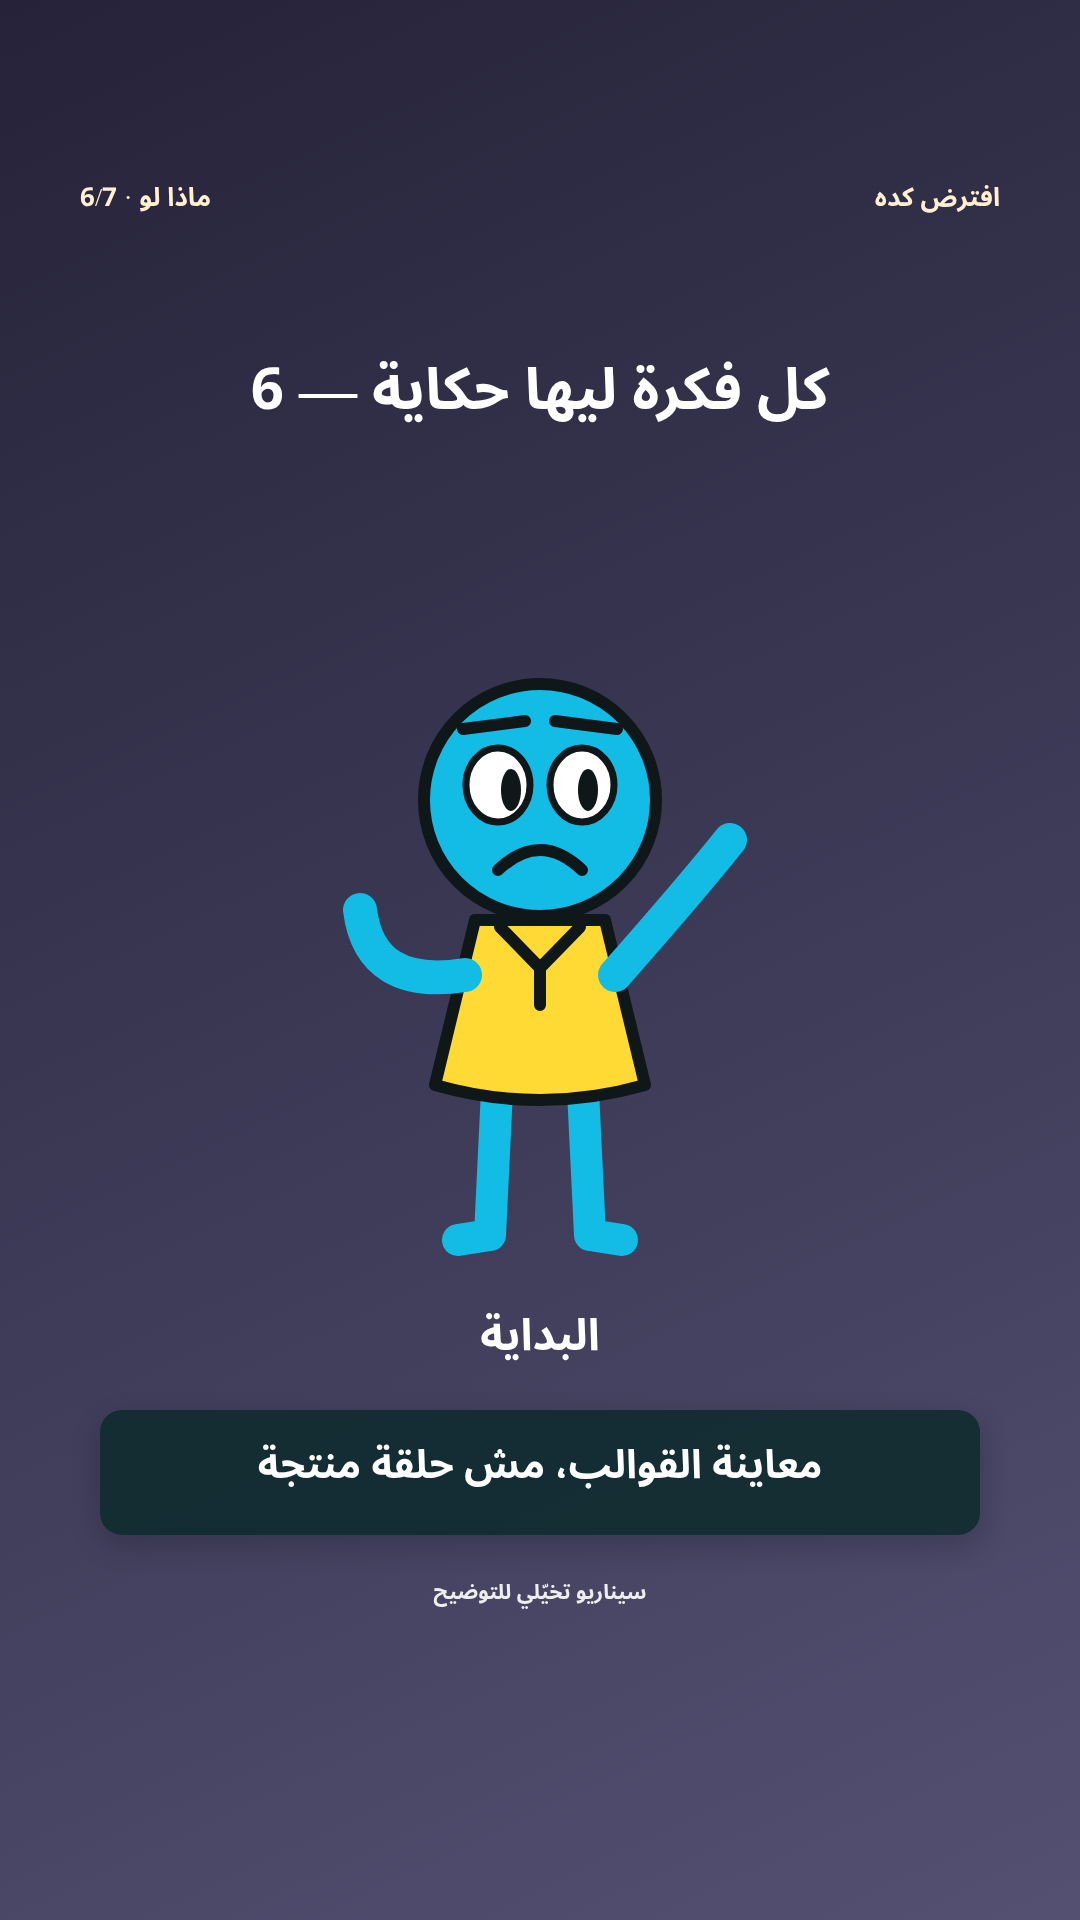
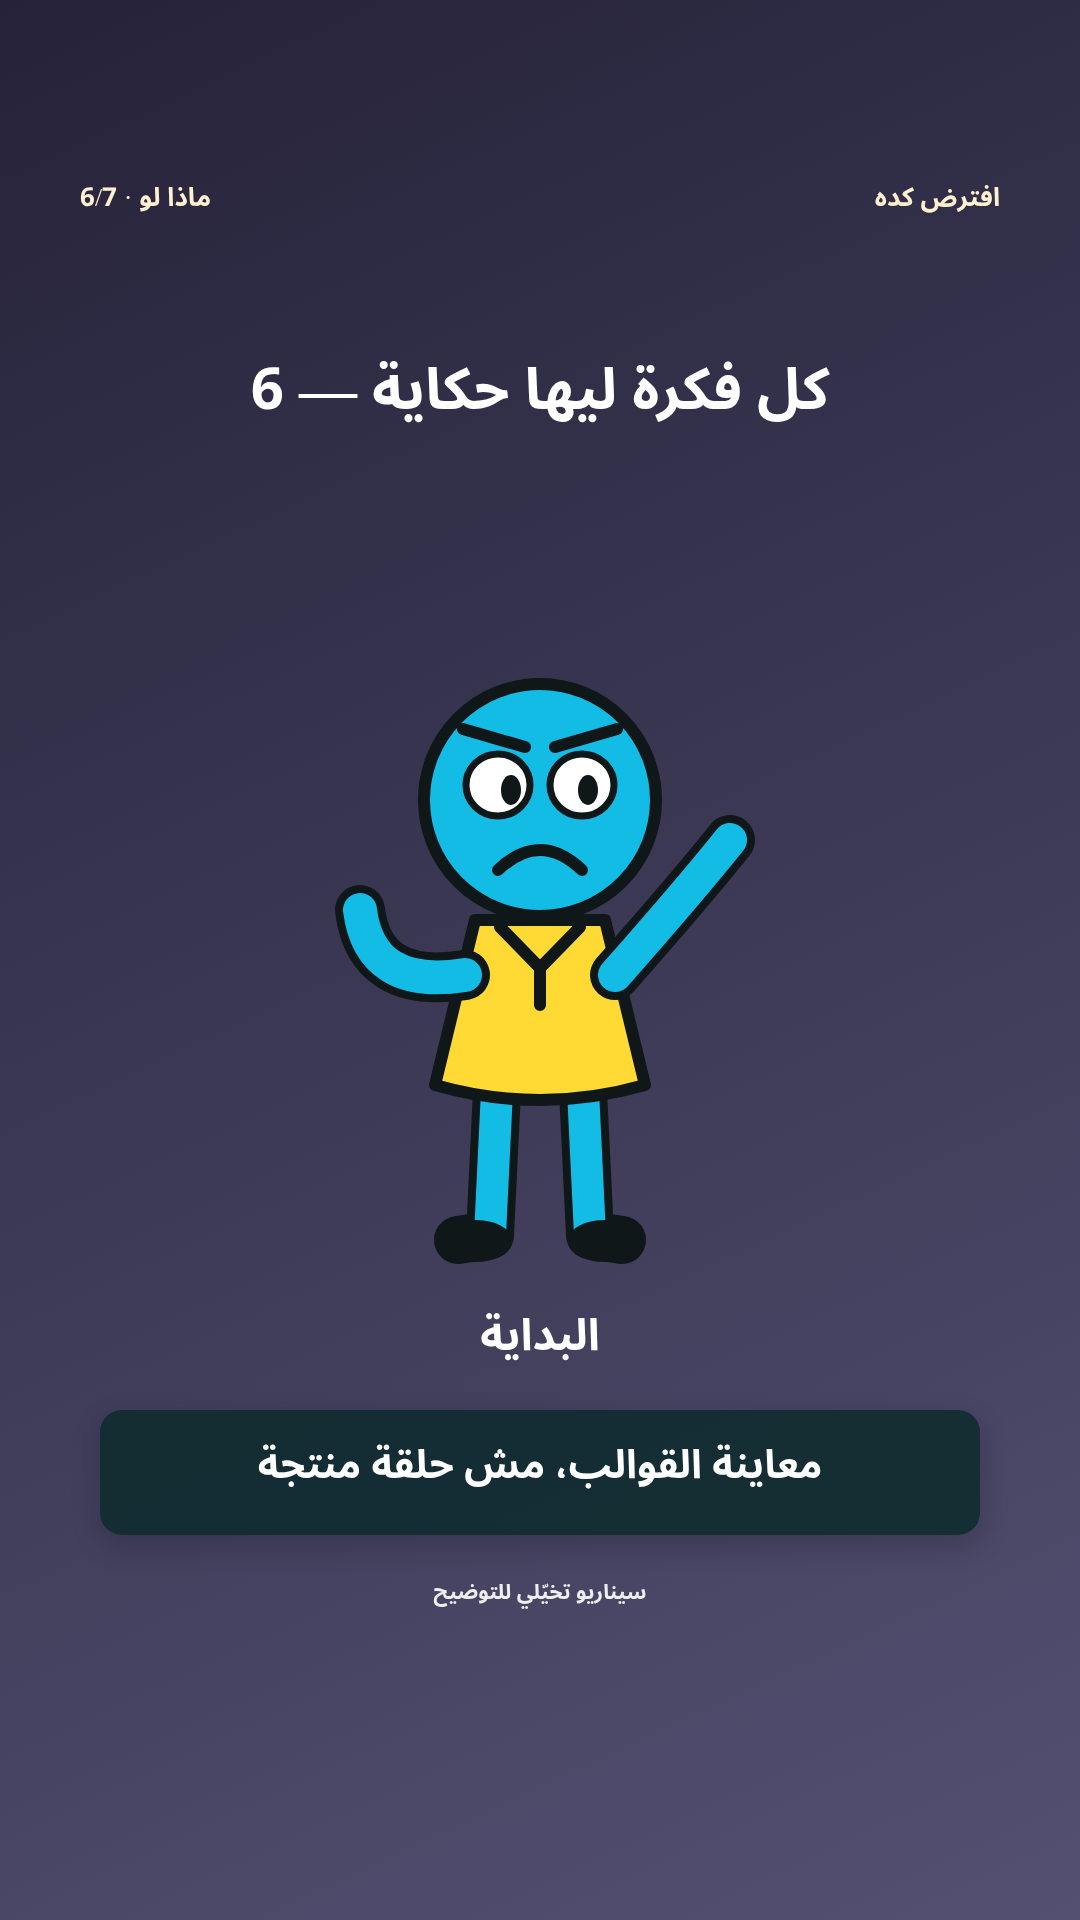
Refine outlined character limbs, expressions and action poses

diff --git a/src/Character.tsx b/src/Character.tsx
@@ -6,16 +6,21 @@ export function Character({frame,expression=0,action='point'}:{frame:number;expr
  const t=frame/30,speed=action==='run'?14:6,walk=['walk','run'].includes(action)?Math.sin(t*speed)*20:0;
  const y=action==='jump'?-Math.abs(Math.sin(t*4))*95:action==='hang'?Math.sin(t*3)*12:0;
  const rotation=action==='fall'?Math.min(85,t*90):action==='sleep'?85:action==='turn'?Math.sin(t*2)*9:0;
- const eye=expression===2||action==='sleep'?2:expression===7?27:21;
+ const eye=expression===2||action==='sleep'?2:[21,29,2,17,25,15,19,30,24,21,23,16][expression];
+ const brow=[-8,-22,10,25,-18,18,-15,30,-12,0,16,-10][expression];
+ const mouth=['M-42 -110 Q0 -63 42 -110','M-22 -105 Q-30 -55 0 -55 Q30 -55 22 -105Z','M-30 -80 L30 -80','M-35 -85 L35 -85','M-30 -95 Q0 -110 30 -85','M-42 -80 Q0 -120 42 -80','M-40 -110 Q10 -60 45 -112','M-22 -100 Q0 -60 22 -100Z','M-50 -110 Q0 -35 50 -110Z','M-40 -110 Q0 -70 40 -110','M-40 -85 Q-10 -105 10 -85 T45 -85','M-35 -95 Q0 -75 35 -100'][expression];
+ const legs=`M-42 120 L${-50+walk} 285 l-32 5 M42 120 L${50-walk} 285 l32 5`;
+ const arms=`M-75 25 Q-170 ${action==='hang'?-220:40+walk} -180 ${action==='hang'?-280:-40} M75 25 Q150 ${action==='hang'?-220:action==='point'?-60:90} 190 ${action==='hang'?-280:action==='point'?-110:30}`;
  return <g transform={`translate(540 ${950+y}) rotate(${rotation})`} stroke={CHARACTER_COLORS.line} strokeWidth={12} strokeLinecap="round" strokeLinejoin="round">
-  <path d={`M-42 120 L${-50+walk} 285 l-32 5 M42 120 L${50-walk} 285 l32 5`} fill="none" stroke={CHARACTER_COLORS.skin} strokeWidth={32}/>
+  <path d={legs} fill="none" strokeWidth={48}/><path d={legs} fill="none" stroke={CHARACTER_COLORS.skin} strokeWidth={32}/>
+  <ellipse cx={-65+walk} cy="291" rx="31" ry="15" fill="#101719"/><ellipse cx={65-walk} cy="291" rx="31" ry="15" fill="#101719"/>
   <path d="M-65 -30 L-105 135 Q0 165 105 135 L65 -30Z" fill={CHARACTER_COLORS.shirt}/>
   <path d="M-40 -23 L0 18 L40 -23 M0 18 L0 55" fill="none"/>
-  <path d={`M-75 25 Q-170 ${40+walk} -180 -40 M75 25 Q150 ${action==='point'?-60:90} 190 ${action==='point'?-110:30}`} fill="none" stroke={CHARACTER_COLORS.skin} strokeWidth={34}/>
+  <path d={arms} fill="none" strokeWidth={50}/><path d={arms} fill="none" stroke={CHARACTER_COLORS.skin} strokeWidth={34}/>
   <circle cx="0" cy="-150" r="116" fill={CHARACTER_COLORS.skin}/>
   <ellipse cx="-42" cy="-165" rx="32" ry={eye+16} fill="white" strokeWidth="7"/><ellipse cx="42" cy="-165" rx="32" ry={eye+16} fill="white" strokeWidth="7"/>
   <ellipse cx={-35+Math.sin(t)*6} cy="-160" rx="10" ry={eye} fill="#101719" stroke="none"/><ellipse cx={42+Math.sin(t)*6} cy="-160" rx="10" ry={expression===9?2:eye} fill="#101719" stroke="none"/>
-  <path d={`M-77 -221 L-15 ${expression===3?-202:-229} M15 ${expression===3?-202:-229} L77 -221`} fill="none"/>
-  {expression===1||expression===7?<ellipse cx="0" cy="-93" rx="24" ry="31" fill="#101719"/>:<path d={expression===5?'M-42 -80 Q0 -120 42 -80':expression===3?'M-35 -85 L35 -85':'M-42 -110 Q0 -63 42 -110'} fill={expression===8?'white':'none'}/>}
+  <path d={`M-77 -221 L-15 ${-221+brow} M15 ${-221+brow} L77 -221`} fill="none"/>
+  {expression===1||expression===7?<ellipse cx="0" cy="-93" rx="24" ry="31" fill="#101719"/>:<path d={mouth} fill={expression===8?'white':'none'}/>}
  </g>;
 }
